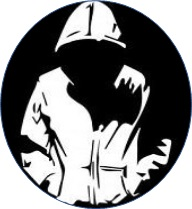
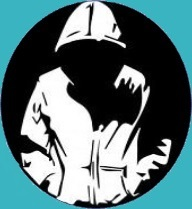
Add files via upload

diff --git a/index.html b/index.html
@@ -4,27 +4,30 @@
 <head>
   <meta charset="utf-8">
   <title>Jason's Site - Welcome!</title>
+<link rel="stylesheet" href="css/styles.css">
 </head>
 
 <body>
   <table cellspacing="17">
     <tr>
       <td><img src="hoodie.jpg" alt="Drawing of hoodie"></td>
-        <td><h1>Jason Witte</h1>
-          <p>Founder of <strong>Jason Witte</strong> dot com </p>
-          <p><a target="_blank" href="ContactInfo.html">Contact Me</a></p>
-          <p>This page was created with the exceptional content in the Udemy course <strong><em>
-          'The Complete Web Development Bootcamp'</em></strong></p>
+      <td>
+        <h1>Jason Witte</h1>
+        <p>Founder of <strong>Jason Witte</strong> dot com </p>
+        <p><a target="_blank" href="ContactInfo.html">Contact Me</a></p>
+        <p>This page was created with the exceptional content in the Udemy course <strong><em>
+              'The Complete Web Development Bootcamp'</em></strong></p>
       </td>
-    </table>
-      <tr><td></td>
-        <td>
-        </td>
-      </tr>
-    </tr>
+  </table>
+  <tr>
+    <td></td>
+    <td>
+    </td>
+  </tr>
+  </tr>
 
   </p>
-  <hr color="Purple">
+  <hr>
   <h3>Recent Reads</h3>
   <ul>
     <strong>Star Wars</strong>
@@ -46,7 +49,7 @@
     To see a list of games I have recently played on my PS4, please click on this
     <a target="_blank" href="Games\games.html">link</a>
   </p>
-  <hr color="Red">
+  <hr>
   <h3>Work History</h3>
   <table>
     <thead>
@@ -70,10 +73,10 @@
     </tfoot>
 
   </table>
-  <hr color="Blue">
+  <hr>
   <p>Clicking on the following link will open the HTML Cheatsheet created by Stanford University.</p>
   <a download href="https://web.stanford.edu/group/csp/cs21/htmlcheatsheet.pdf">Stanford HTML Cheatsheet</a>
-  <hr color="Red">
+
 
 </body>
 

diff --git a/CSS/styles.css b/CSS/styles.css
@@ -1,0 +1,27 @@
+
+  body {
+    background-color: #3BB4C1;
+  }
+
+  hr {
+    border-style: none;
+    border-top-style: dotted;
+    border-color: #ffe5ae;
+    border-width: 5px;
+    width: 5%;
+  }
+  h1
+  {
+    color: #ffffcc;
+  }
+  h2
+  {
+    color: #ffffcc;
+  }
+  h3
+  {
+    color: #ffd700;
+    text-decoration: underline;
+    text-align: center;
+
+  }

diff --git a/Games/games.html b/Games/games.html
@@ -3,6 +3,7 @@
   <head>
     <meta charset="utf-8">
     <title>Games I have played</title>
+    <link rel="stylesheet" href="../css/styles.css">
   </head>
   <body>
 <h2>These are the most recent games I have played</h2>

diff --git a/ContactInfo.html b/ContactInfo.html
@@ -4,6 +4,7 @@
 <head>
   <meta charset="utf-8">
   <title>My Contact Information</title>
+  <link rel="stylesheet" href="css/styles.css">
 </head>
 
 <body>
